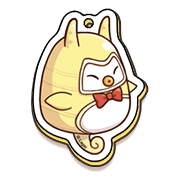
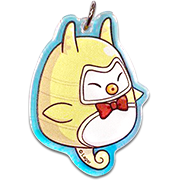
更新鑰匙圈的實體照

diff --git a/index.html b/index.html
@@ -156,34 +156,34 @@
       <!-- 鑰匙圈的示意圖 -->
       <div class="variable slider">
         <div>
-          <img src="assets/images/keys/key-1.png">
+          <img src="assets/images/keys/key-1.png" alt="小丑兔">
         </div>
         <div>
-          <img src="assets/images/keys/key-2.png">
+          <img src="assets/images/keys/key-2.png" alt="金海馬">
         </div>
         <div>
-          <img src="assets/images/keys/key-3.png">
+          <img src="assets/images/keys/key-3.png" alt="狼紅帽">
         </div>
         <div>
-          <img src="assets/images/keys/key-4.png">
+          <img src="assets/images/keys/key-4.png" alt="雪怪">
         </div>
         <div>
-          <img src="assets/images/keys/key-5.png">
+          <img src="assets/images/keys/key-5.png" alt="猴子">
         </div>
         <div>
-          <img src="assets/images/keys/key-6.png">
+          <img src="assets/images/keys/key-6.png" alt="黑羊">
         </div>
         <div>
-          <img src="assets/images/keys/key-7.png">
+          <img src="assets/images/keys/key-7.png" alt="微笑貓咪">
         </div>
         <div>
-          <img src="assets/images/keys/key-8.png">
+          <img src="assets/images/keys/key-8.png" alt="雷爵獸">
         </div>
         <div>
-          <img src="assets/images/keys/key-9.png">
+          <img src="assets/images/keys/key-9.png" alt="熱虎">
         </div>
         <div>
-          <img src="assets/images/keys/key-10.png">
+          <img src="assets/images/keys/key-10.png" alt="鯊拉醬">
         </div>
       </div>
     </article>
